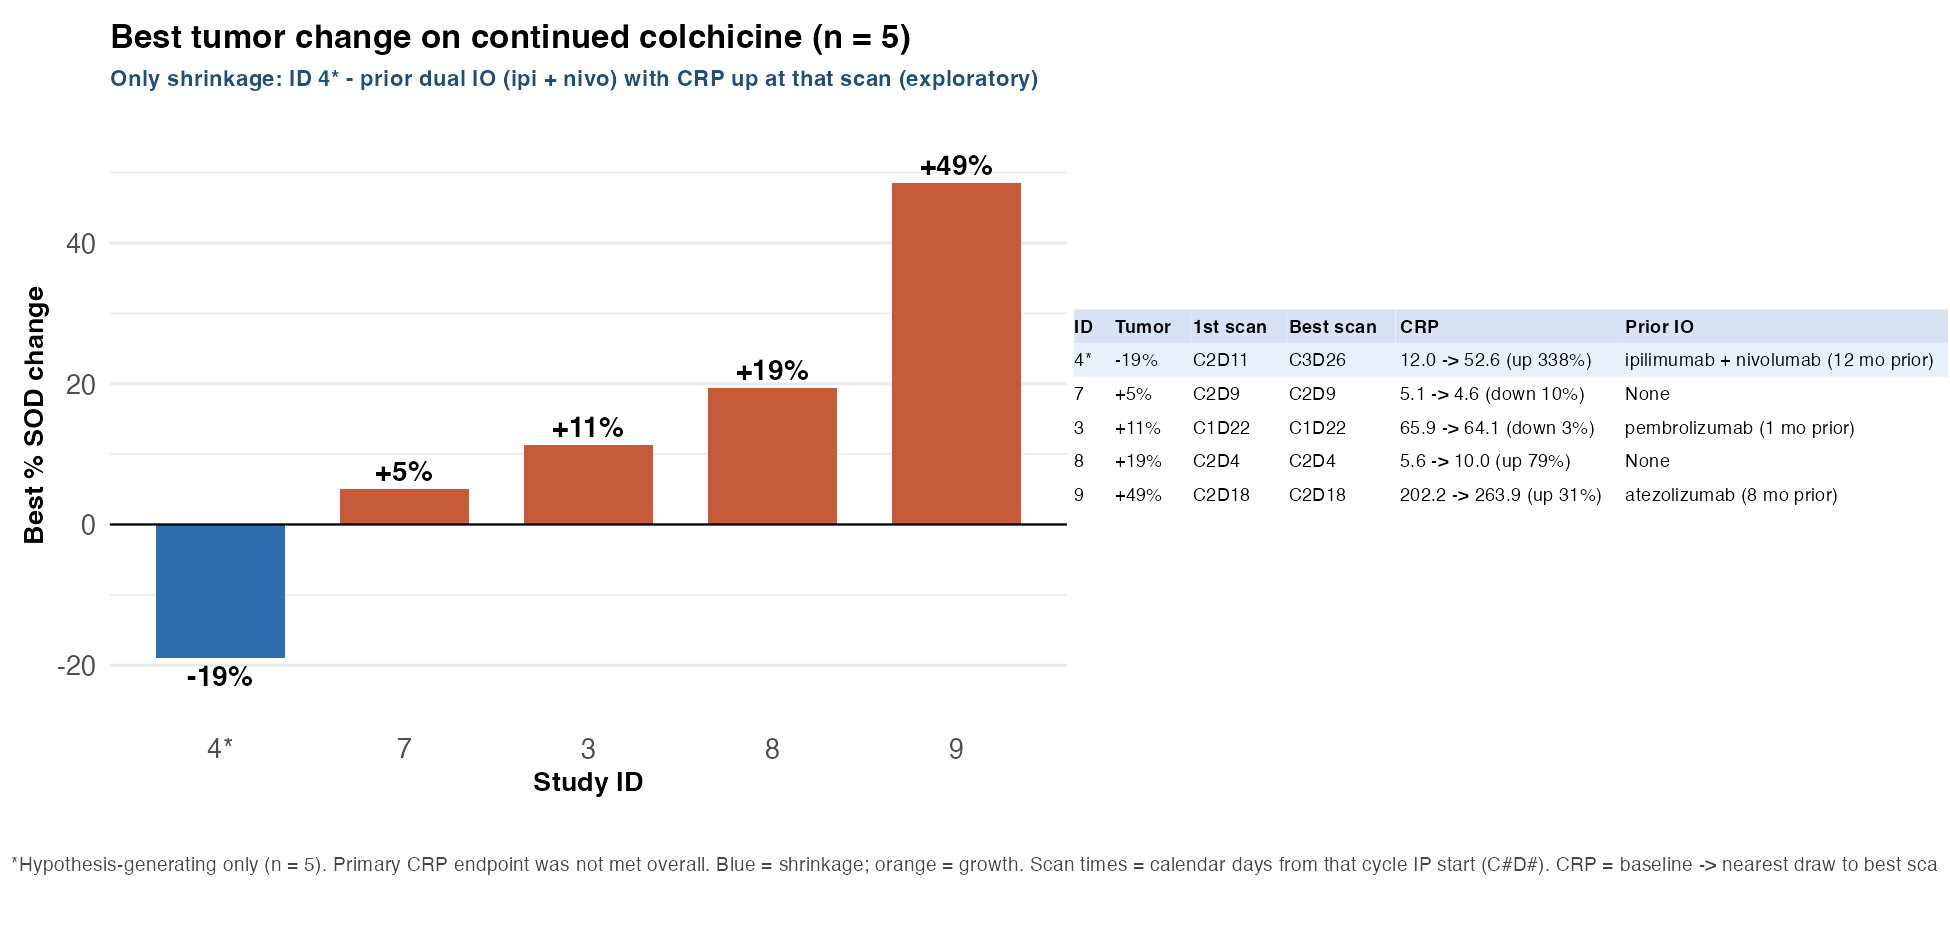
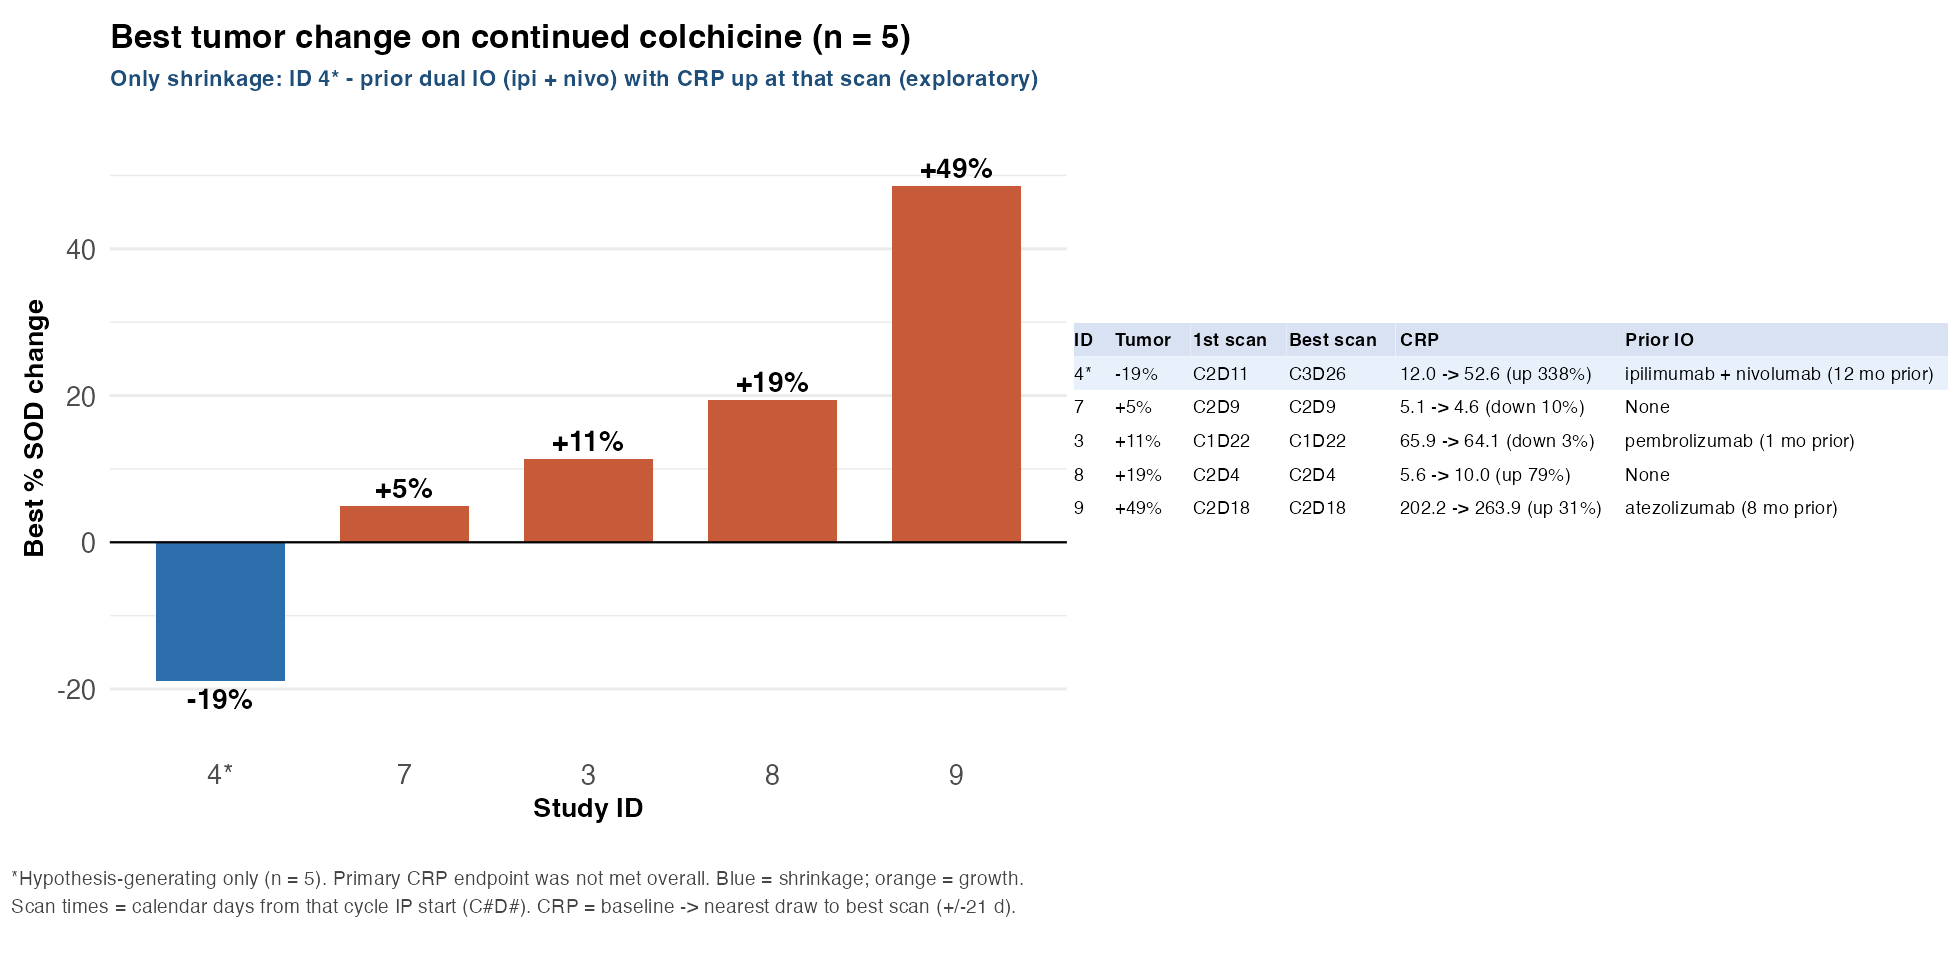
fix: wrap joint tumor-figure caption so scan/CRP notes are fully visible

diff --git a/statistical-analysis.html b/statistical-analysis.html
@@ -1881,11 +1881,11 @@ if (nrow(tumor_waterfall_dat) &gt; 0) {
   fig_caption_grob &lt;- grid::textGrob(
     paste0(
       &quot;*Hypothesis-generating only (n = 5). Primary CRP endpoint was not met overall. &quot;,
-      &quot;Blue = shrinkage; orange = growth. &quot;,
+      &quot;Blue = shrinkage; orange = growth.\n&quot;,
       &quot;Scan times = calendar days from that cycle IP start (C#D#). &quot;,
       &quot;CRP = baseline -&gt; nearest draw to best scan (+/-21 d).&quot;
     ),
-    x = 0, hjust = 0, gp = grid::gpar(fontsize = 9.5, col = &quot;#444444&quot;, lineheight = 1.15)
+    x = 0, hjust = 0, gp = grid::gpar(fontsize = 9.5, col = &quot;#444444&quot;, lineheight = 1.2)
   )
 
   # Joint figure: plot left, table right, caption below (before end of figure)